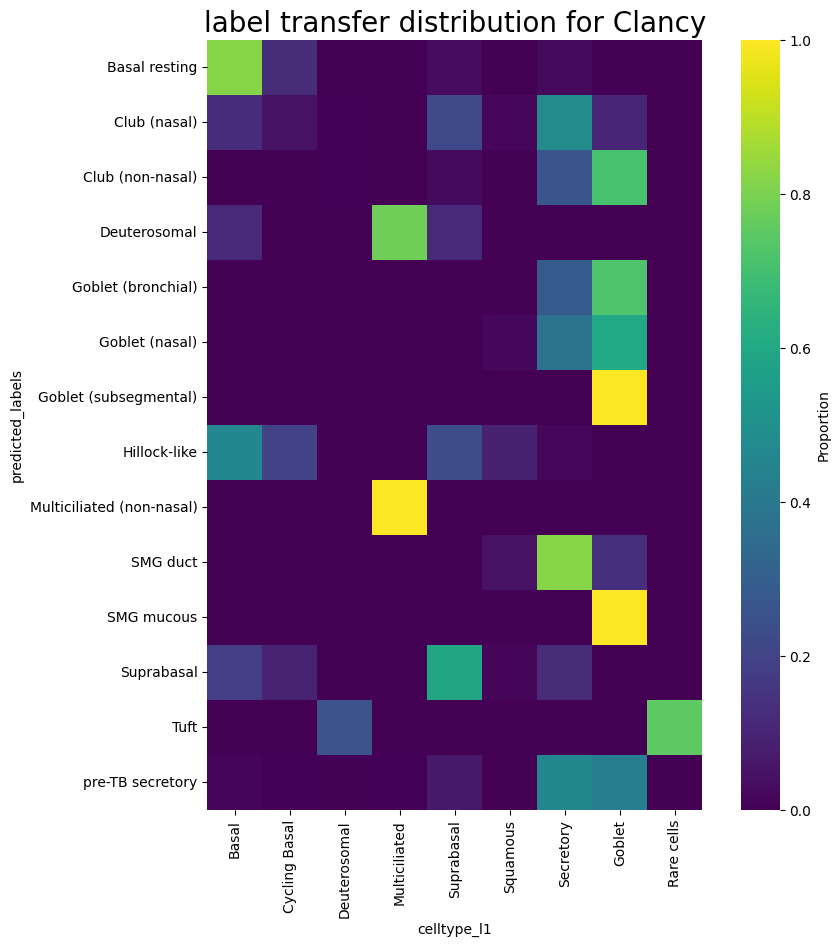
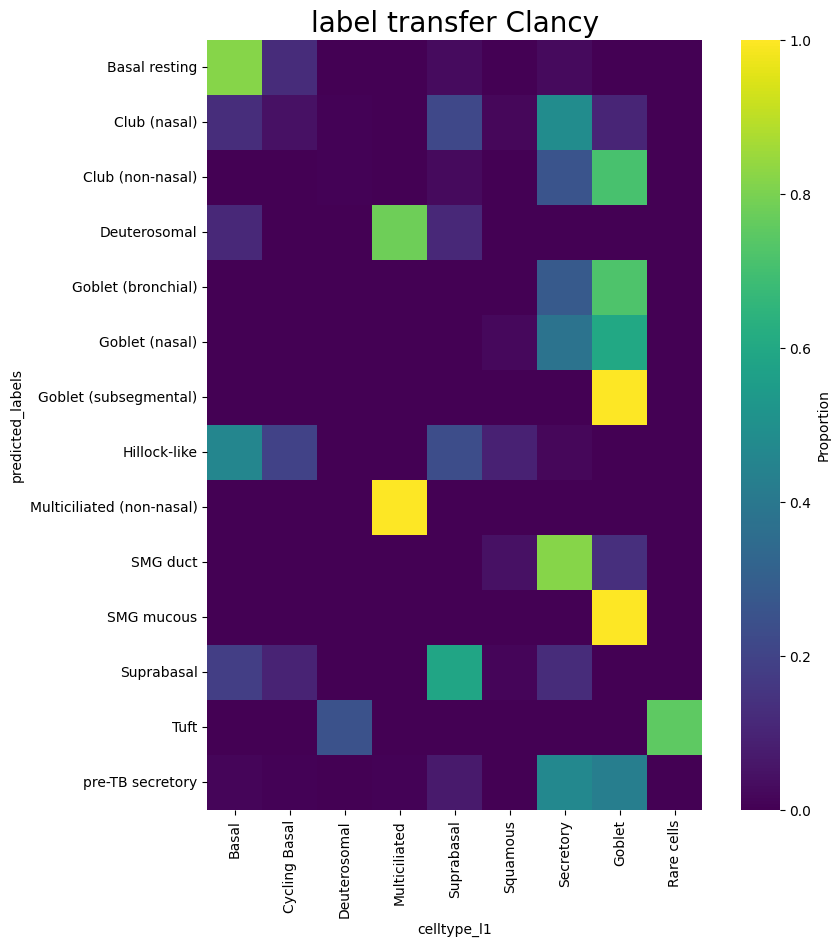
refactored and tested everything. Index is coming along

Changed region(s): [[0.2476, 0.0, 0.8357, 0.0612]]

diff --git a/README.md b/README.md
@@ -266,10 +266,8 @@ plt.show()
 In single cell data analysis, a common issue arises when dealing with
 annotations such as cell types. Even for identical cells, the annotation
 sets may not match perfectly. This discrepancy can be due to various
-factors such as differences in annotation methods, experimental
-conditions, or even biological variability. This inconsistency poses a
-significant challenge in integrating and comparing single cell datasets
-across different studies or conditions.
+factors such as differences in annotation methods, different naming
+conventions, spelling, different resolotions, groupings of subtypes etc.
 
 Single-Cell-Fuzzy-Labels, provides a solution to this problem. It uses a
 fuzzy labeling approach to harmonize the cell type annotations across
@@ -314,7 +312,7 @@ Label_alias_dict
      'Multiciliated (non-nasal)': 'Multiciliated',
      'Hillock-like': 'Rare cells',
      'pre-TB secretory': 'Secretory',
-     'SMG mucous': 'Goblet',
+     'SMG mucous': 'Secretory',
      'Tuft': 'Rare cells',
      'Goblet (subsegmental)': 'Goblet',
      'SMG duct': 'Secretory',
@@ -326,11 +324,10 @@ In this section, we will utilize the ‘harmonise’ function from the
 Single-Cell-Fuzzy-Labels library. This function is designed to address
 the common issue in single cell data analysis where identical cells may
 have different annotations due to various factors such as differences in
-annotation methods, experimental conditions, or biological variability.
-The ‘harmonise’ function uses a fuzzy labeling approach to match cell
-type labels across different datasets, thereby enabling more accurate
-integration and comparison of single cell datasets from different
-studies or conditions.
+annotation methods. The ‘harmonise’ function uses a fuzzy labeling
+approach to match cell type labels across different datasets, thereby
+enabling more accurate integration and comparison of single cell
+datasets with different annotation schemas.
 
 ``` python
 query.obs['mapped_predictions'] = harmonise.map_old_labels_to_new(list(query.obs['predicted_labels'].values), Label_alias_dict)
@@ -358,7 +355,7 @@ medium_list = query.obs['medium'].unique().tolist()
 for medium in medium_list:
     medium_subset = query[query.obs['medium'] == medium]
     transfers = viz.map_label_transfers(medium_subset, 'predicted_labels', 'celltype_l1')
-    viz.visualize_label_distribution(transfers, fuzz1_score=None, title=f'label transfer distribution {medium}')
+    viz.visualize_label_distribution(transfers, fuzz1_score=None, title=f'label transfer {medium}')
       
     plt.tight_layout()
     plt.show()
@@ -367,7 +364,7 @@ for medium in medium_list:
     transfers = viz.map_label_transfers(medium_subset, 'mapped_predictions', 'celltype_l1')
     
 
-    viz.visualize_label_distribution(transfers, fuzz1_score=fuzz_1, title=f'label transfer distribution fuzz_1 {medium}', proportions_flag = 'md', matched = True)
+    viz.visualize_label_distribution(transfers, fuzz1_score=fuzz_1, title=f'label transfer fuzz_1 {medium}', proportions_flag = 'md', matched = True)
     
     plt.tight_layout()
     plt.show()
